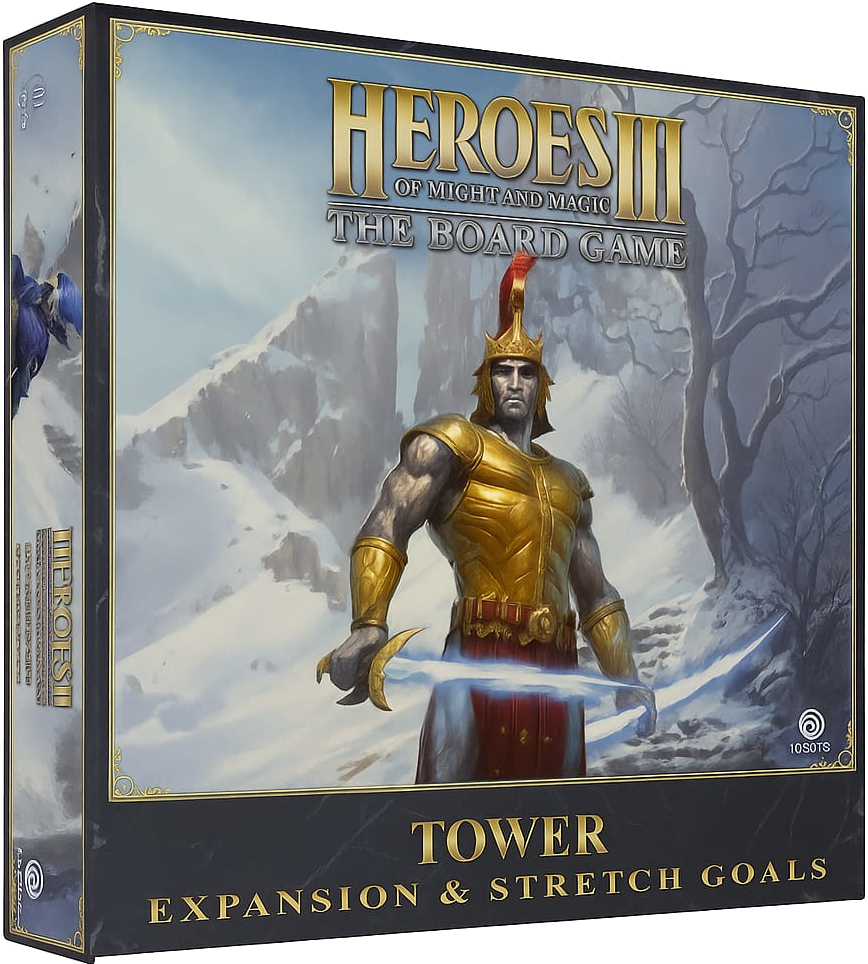
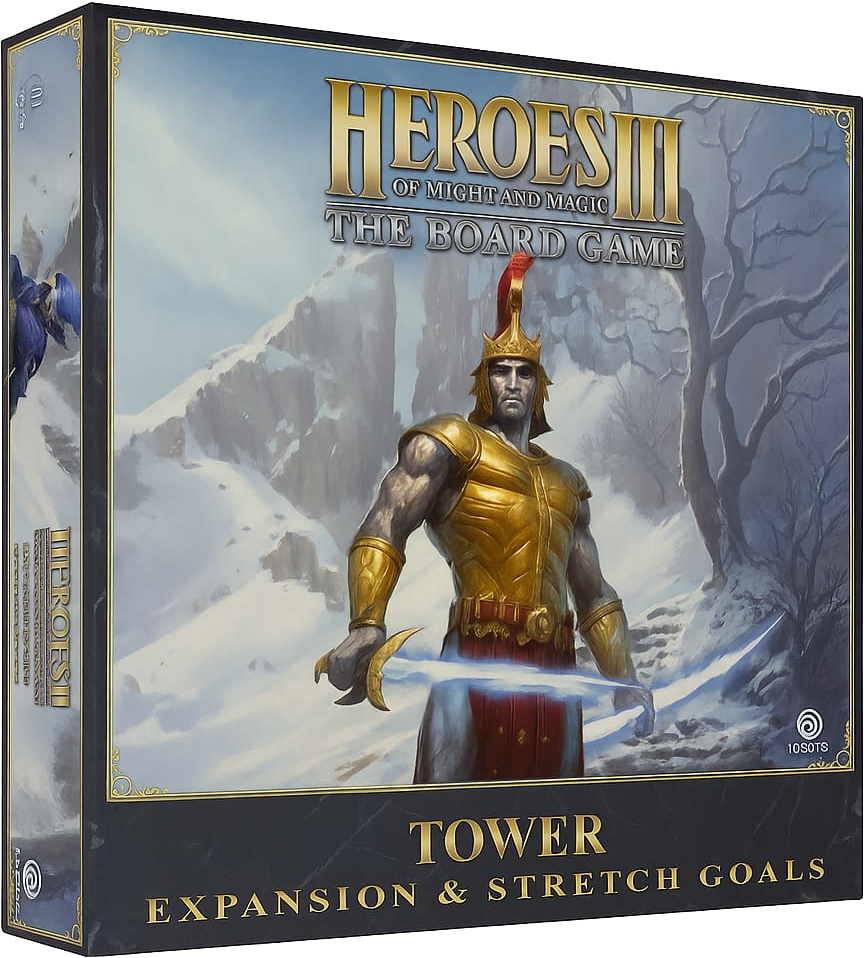
fix shape of tower box, add another stretchgoal image

diff --git a/sections/expansion_content.tex b/sections/expansion_content.tex
@@ -486,7 +486,7 @@ The only new game variant contained in a Stretchgoal box is exlained below.
      \includegraphics[width=0.8\linewidth]{\boxcovers/stretchgoals-factionunits.png}
      \footnotesize Contains neutral miniatures\par
      \vspace*{0.5em}
-     \includegraphics[width=0.8\linewidth]{\boxcovers/stretchgoals-factionunits.png}
+     \includegraphics[width=0.8\linewidth]{\boxcovers/stretchgoals-neutral.png}
      \footnotesize Contains neutral miniatures\par
 
      \columnbreak
